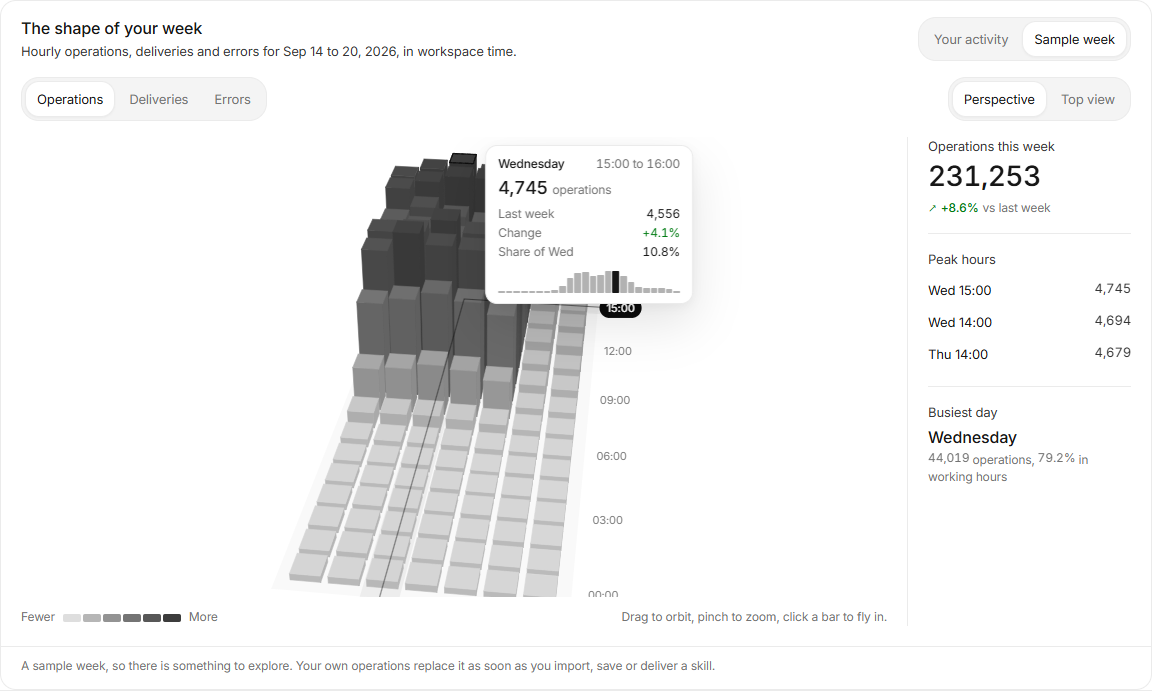
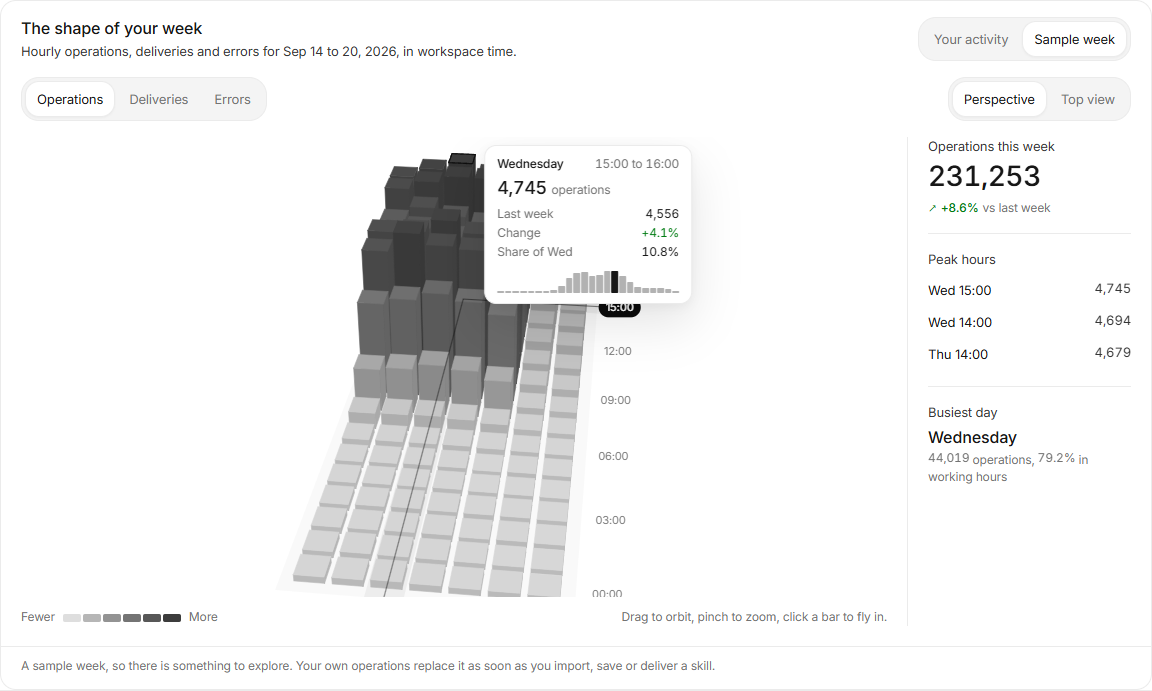
update comp

diff --git a/src/components/sites/skilled/terrain/terrain-engine.ts b/src/components/sites/skilled/terrain/terrain-engine.ts
@@ -126,8 +126,10 @@ export class TerrainEngine {
     const resize = new ResizeObserver(() => this.resize()); resize.observe(this.plot); this.cleanups.push(() => resize.disconnect());
     const intersect = new IntersectionObserver(entries => { this.onScreen = entries[entries.length - 1]?.isIntersecting ?? true; if (this.onScreen) { this.last = 0; this.invalidate(); } });
     intersect.observe(this.plot); this.cleanups.push(() => intersect.disconnect());
+    // the workspace sets its theme on its own page element (and a host page may on <html>): watch every ancestor
     const theme = new MutationObserver(() => { this.readTheme(); this.invalidate(); });
-    theme.observe(document.documentElement, { attributes: true, attributeFilter: ["class", "data-theme", "style"] }); this.cleanups.push(() => theme.disconnect());
+    for (let ancestor: Element | null = this.plot; ancestor; ancestor = ancestor.parentElement) theme.observe(ancestor, { attributes: true, attributeFilter: ["class", "data-theme", "style"] });
+    this.cleanups.push(() => theme.disconnect());
     const motion = window.matchMedia("(prefers-reduced-motion: reduce)");
     const motionChanged = () => { this.reduced = motion.matches; this.camera.reduced = this.reduced; if (this.reduced) { this.columns.snap(); this.camera.snap(); } this.invalidate(); };
     motion.addEventListener("change", motionChanged); this.cleanups.push(() => motion.removeEventListener("change", motionChanged));

diff --git a/docs/research/uiarc-terrain/README.md b/docs/research/uiarc-terrain/README.md
@@ -2,7 +2,7 @@
 
 Added 2026-10-22 under the Skilled workspace (after the skill library and the realtime stream). Source of the idea: the public preview <https://uiarc.dev/components/blocks/activity-terrain> (a Pro block of UIArc; its source and install are gated, its preview is open). Everything here was **measured from what that preview draws in a real browser**: no UIArc API, registry, CLI, MCP, downloaded bundle or Pro source was used, and no screenshot is part of the implementation.
 
-Code: `src/components/sites/skilled/terrain/` (mounted by `Skilled.tsx`). QA: `node scripts/qa/terrain.mjs` (52 checks). Unit tests: `terrain.test.mjs` (13), fixtures in `fixtures/`.
+Code: `src/components/sites/skilled/terrain/` (mounted by `Skilled.tsx`). QA: `node scripts/qa/terrain.mjs` (53 checks). Unit tests: `terrain.test.mjs` (13), fixtures in `fixtures/`.
 
 ## What it is
 
@@ -38,7 +38,7 @@ Raw traces are large (about 25 MB each) and stay out of the repository; `fixture
 | Flatten | yaw, pitch and distance blend with one spring (5.76 rad/s); scale and pan follow measured arcs, different each way (pull back 0.55 on the way down, swoop in 1.54 on the way up); columns fold flat after 0.1 s | `terrain-constants.ts` (`FLIGHT_DOWN/UP`) |
 | Columns | critically damped springs: 6.43 rad/s with a 34.5 ms delay per step of hour + day on load, 12.39 rad/s and 11 ms per step on a metric change | `terrain-columns.ts` |
 | Highlight | two 5 % ground bands, two guide lines (55 %), solid and dashed 3-3 outline, dark label pills with white text, neighbouring labels hidden | `terrain-draw.ts` |
-| Panel | 208 px, to the right of the column (22 px), flips left near the edge, spring 12 rad/s; day, hour, value, last week, change, share, 24-hour sparkline | `terrain-engine.ts`, `ActivityTerrain.tsx` |
+| Panel | 208 px, 22 px right of the column (flips left near the edge), 71.3 px above its top-face centre, above the column when it is low in the plot; follows with a 12 rad/s spring; day, hour, value, last week, change, share, 24-hour sparkline | `terrain-engine.ts`, `ActivityTerrain.tsx` |
 | Keys | arrows move hour/day, Home/End ends of the day, Enter/Space fly, Escape: whole week then clear, Shift+arrows orbit (15 deg, 7.84 deg), + and - zoom; focus highlights the busiest hour | `terrain-engine.ts` |
 | Layout / type / tokens | declared CSS of the block (grid 1fr + 224 px, 880 px and 560 px steps, plot clamp(280, 44cqi, 460), segmented control, counters) | `activity-terrain.css`, `Segmented.tsx`, `AnimatedNumber.tsx` |
 
@@ -49,13 +49,13 @@ Run on 2026-10-22 (Chrome and WebKit, this machine).
 * **Polygons**: at the rest pose the local renderer produces the same number of polygons as the preview (505, 498 and 481 in the three states checked, culling included); vertices within 0.5 px (mean 0.25), colours within 2.7 levels on average; labels within 1 px.
 * **Camera** (platform corners over every frame, px mean / max): intro 1.0 / 5.8, flatten 0.95 / 3.8, back 2.8 / 20, slow drag 0.6 / 1.0, vertical drag 1.4 / 2.7, zoom keys 1.0 / 3.2, fly in 1.4 / 3.3, fly out 0.4 / 1.0, metric change 0.4-0.6 / 0.7, limits 2-3 / 4-9, keyboard orbit 3.4 / 12. A hard flick lands about 6 % short (mean 20 px): the release velocity estimate of a handful of coalesced events is not known.
 * **Columns**: mean 0.007-0.009 grid units (0.1 px) on load and metric change, worst 4-5 px.
-* **End to end** (`compare.json`, the block narrowed so its plot is 622 x 291 like the preview's at 1440 px): intro 1.8 px mean, metric changes about 1 px, flatten 1.4 px, zoom 2 px. Back-to-perspective, the largest flight, is within 4-7 px mean; the slow-drag comparison is not comparable (Playwright paces the events differently from the recording) and is covered by the simulation above instead.
+* **End to end** (`compare.json`, the block narrowed so its plot is 622 x 291 like the preview's at 1440 px, platform corners over every frame, px mean / max): intro 1.8 / 5.8, metric changes 0.9-1.2 / 1-3, flatten 1.3 / 4.7, zoom keys 2.3-2.5 / 5-8, back to perspective (the largest flight) 4-9 / 19-21 depending on the frame rate the browser achieved that run. Dragging is not compared here (Playwright cannot pace pointer events like the recording and momentum scales with speed); the recorded drags are replayed against the camera in node instead. The last frame of each run sits about 1 px from the recording because the two canvases differ by under a pixel.
 * **Idle**: with nothing moving the loop draws zero frames; offscreen and in a hidden tab it pauses; reduced motion lands every change in one frame.
-* `npm test` 312 pass (13 for the terrain); `node scripts/qa/terrain.mjs` 52/52 (desktop, keyboard, real and empty data, reduced motion, dark, phone 390, WebKit, no console errors).
+* `npm test` 312 pass (13 for the terrain); `node scripts/qa/terrain.mjs` 53/53 (desktop, keyboard, real and empty data, reduced motion, dark and the workspace's theme switch, phone 390, WebKit, no console errors); `node scripts/qa/skilled.mjs` 27/27 still passes; lint, typecheck and production build are clean.
 
 ## Differences and limits (honest)
 
-* **Not a copy of private source**: spring constants, framing rules and arcs are fitted to behaviour; where the preview's internals are unknown the nearest measured rule is used. The vertical placement of the framing at pitches other than the measured ones (11, 31, 39, 72, 85 deg) is interpolated; on a phone it sits within about 1 px of the recording at rest, but only that pose was recorded. The hover panel's vertical placement follows the observed offset (71 px above the column's top, clamped) and does not reproduce every case of the preview (it sometimes moved above a low column).
+* **Not a copy of private source**: spring constants, framing rules and arcs are fitted to behaviour; where the preview's internals are unknown the nearest measured rule is used. The vertical placement of the framing at pitches other than the measured ones (11, 31, 39, 72, 85 deg) is interpolated; on a phone it sits within about 1 px of the recording at rest, but only that pose was recorded. The hover panel's placement matches every settled position recorded (beside the column, or above it when low), but the exact threshold between the two is inferred from a handful of cases.
 * Colours of the preview come from `color-mix` and the browser's gamut mapping; the local curves are cubic fits (within 1-3 levels), so a column can differ by two or three greys.
 * Working hours in "busiest day" are 09:00-18:00 of the workspace clock; the preview's own definition could not be recovered (its 70.8 % does not match any whole-hour window of its table).
 * The preview's `Fullscreen` view and canvases wider than 742 px were not recorded, so very wide blocks use the same rules scaled by height (cap and bottom padding) and are unverified against the preview. Touch pinch and a physical iPhone were not tested; touch orbit (sideways) and the layout were exercised with emulation.
